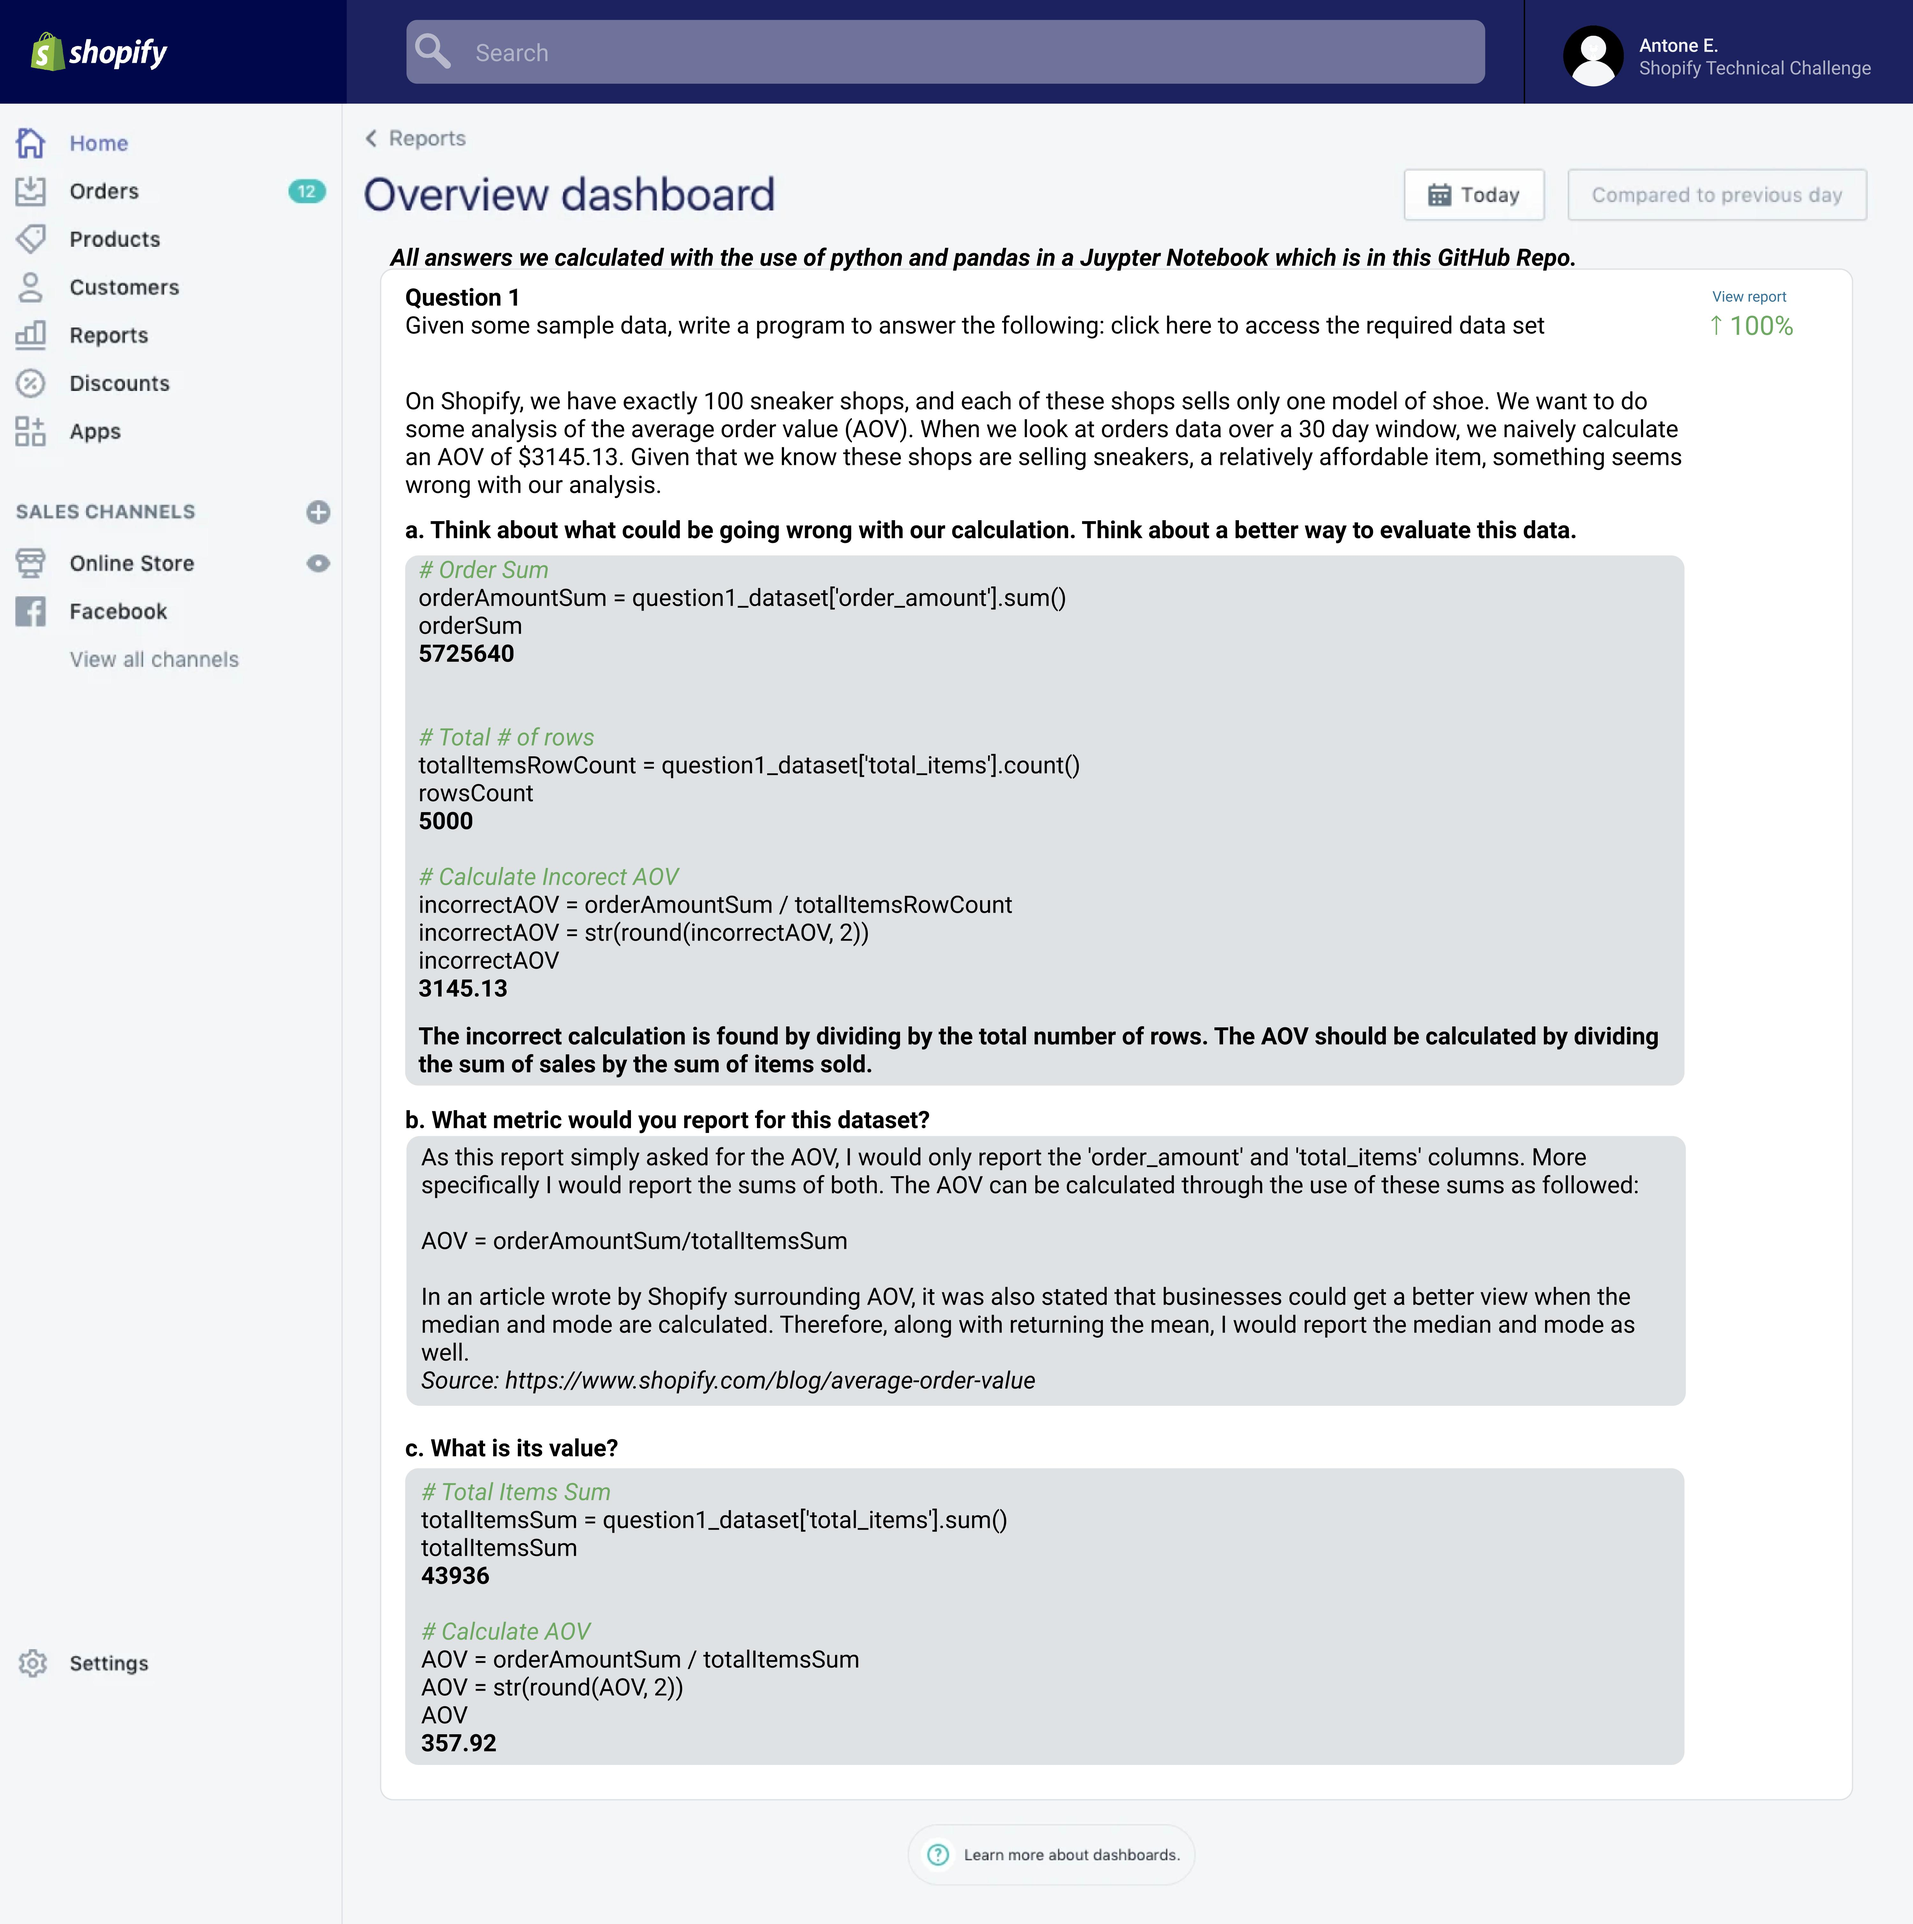
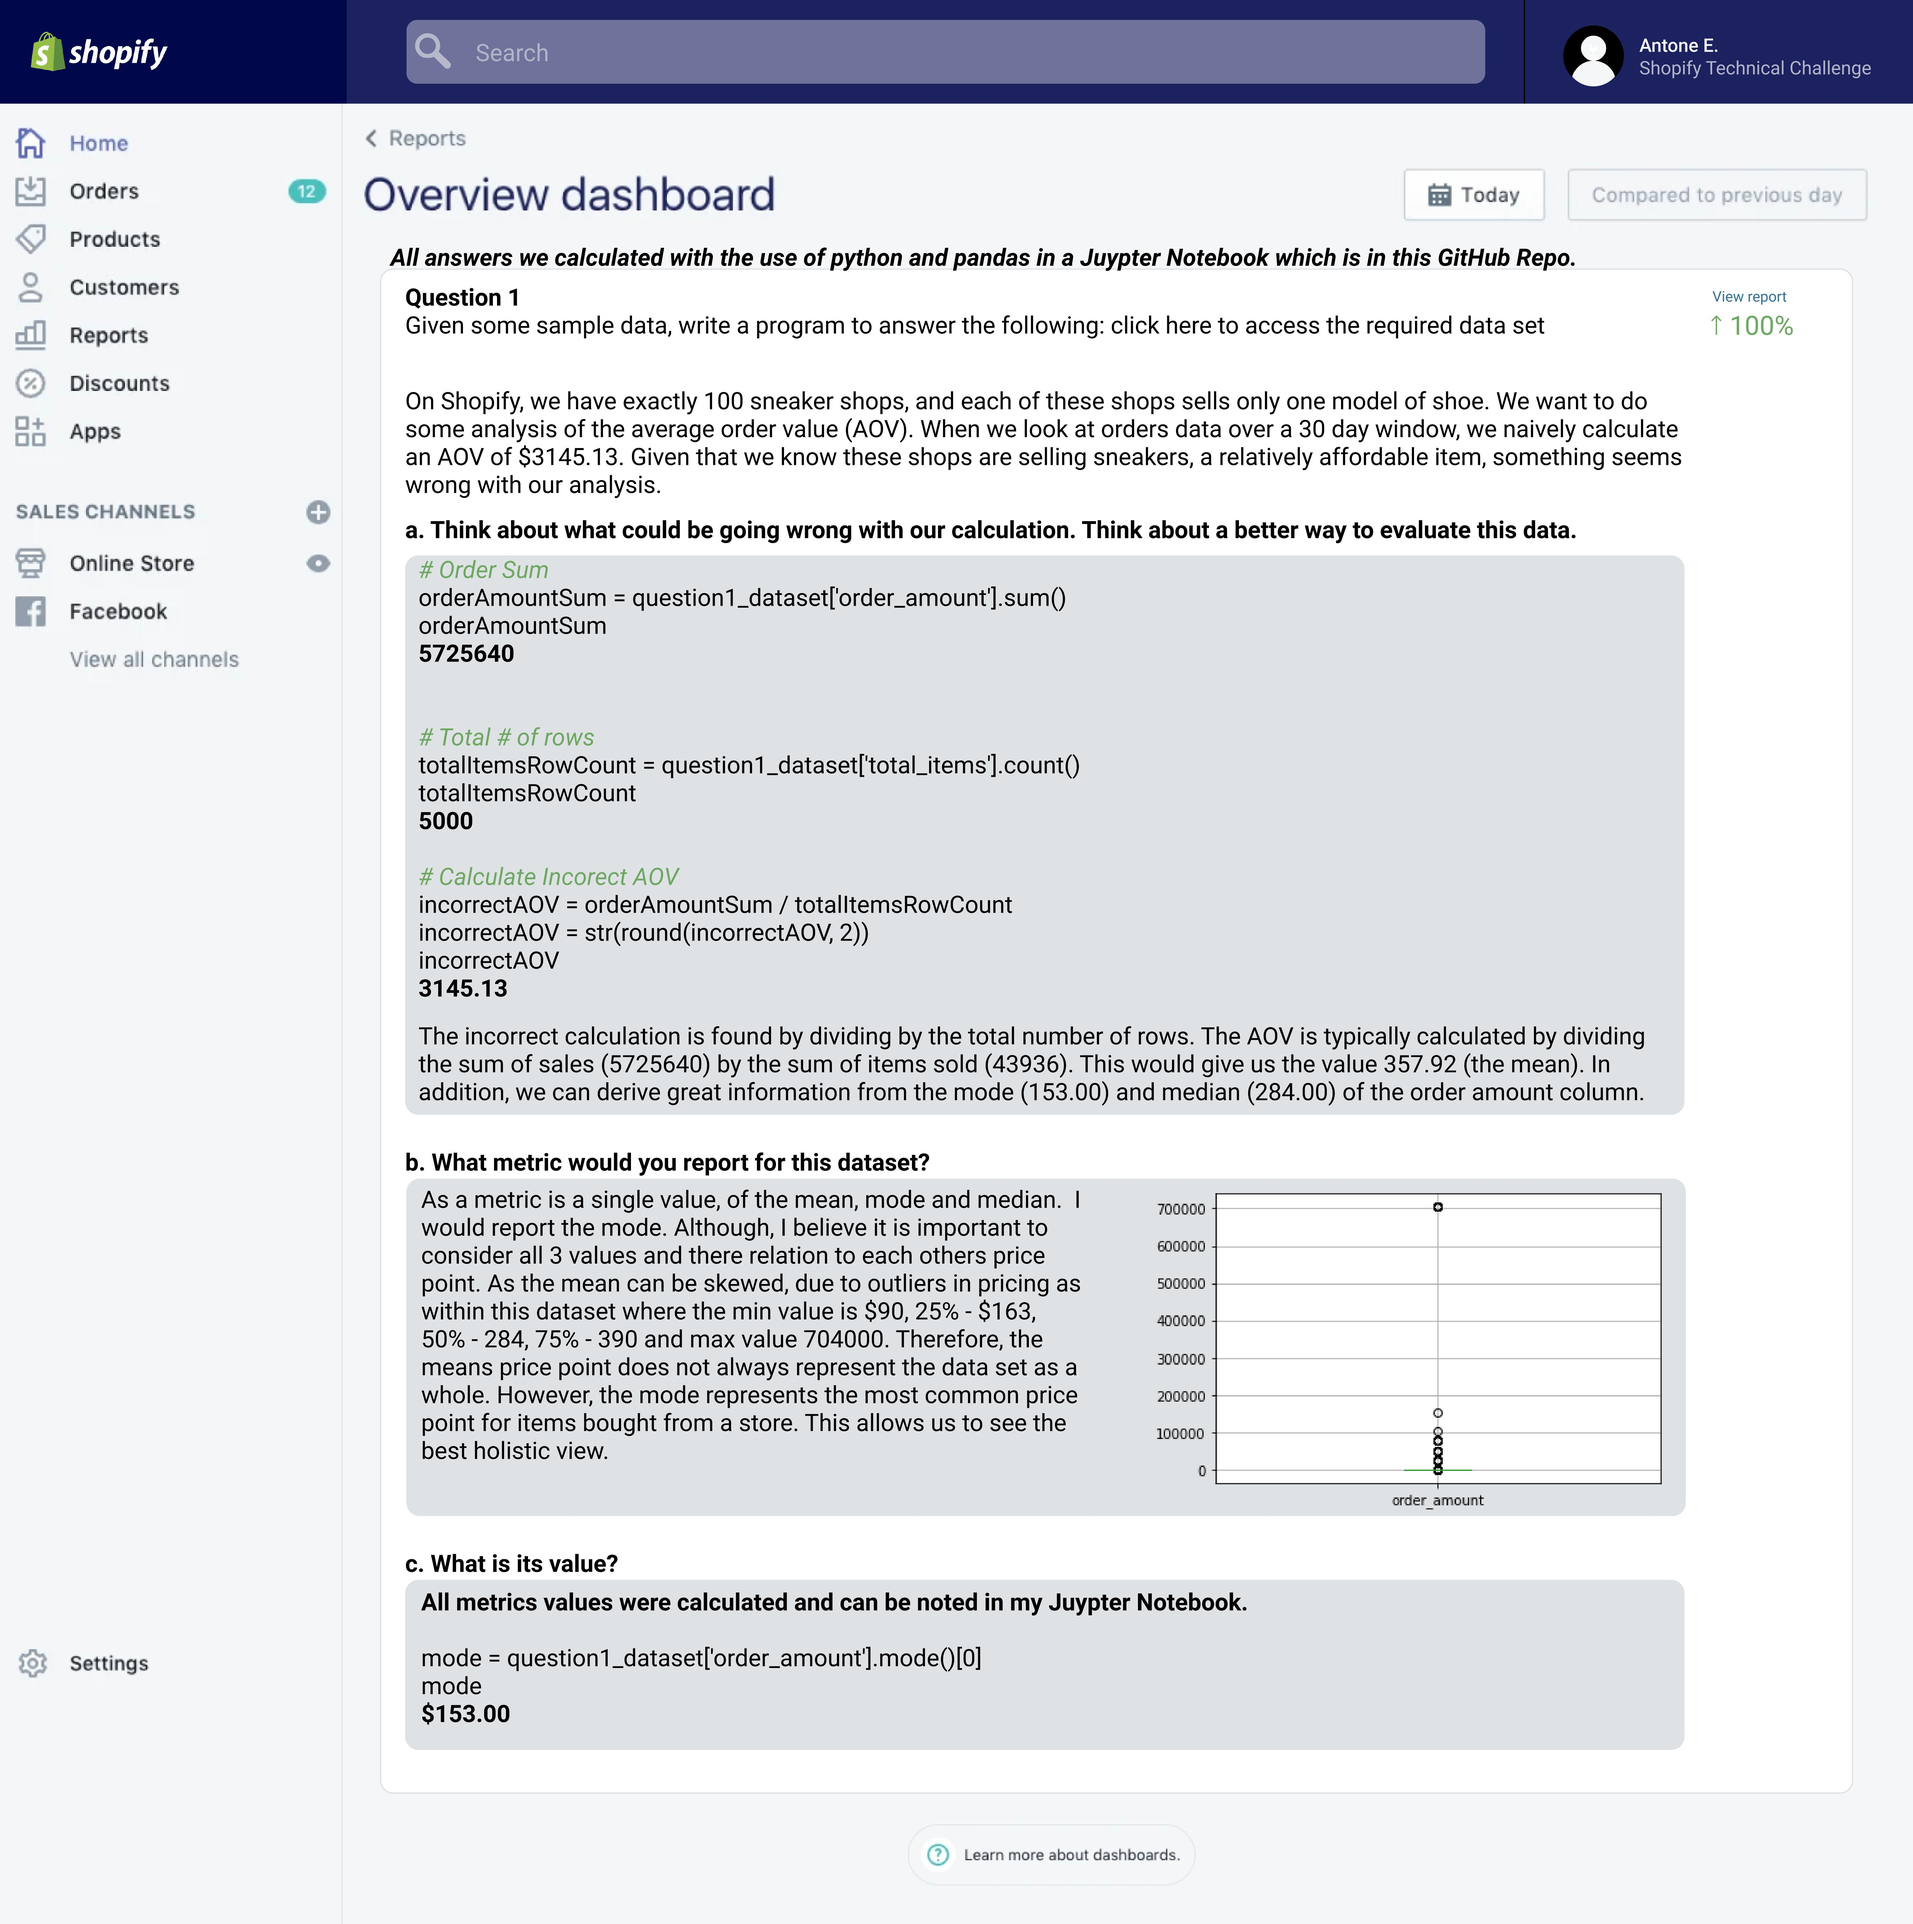
Corrected Image and Readme

Changed region(s): [[0.187, 0.5297, 0.9038, 0.9347], [0.2182, 0.405, 0.2805, 0.4362], [0.2493, 0.3116, 0.2805, 0.3427]]

diff --git a/README.md b/README.md
@@ -16,12 +16,12 @@
 ```python
 # Order Sum
 orderAmountSum = question1_dataset['order_amount'].sum()
-orderSum
+orderAmountSum
 5725640
 
 # Total # of rows
 totalItemsRowCount = question1_dataset['total_items'].count()
-rowsCount
+totalItemsRowCount
 5000
 
 # Calculate Incorect AOV
@@ -31,30 +31,22 @@ incorrectAOV
 3145.13
 ```
 
-The incorrect calculation is found by dividing by the total number of rows. The AOV should be calculated by dividing the sum of sales by the sum of items sold.
+The incorrect calculation is found by dividing by the total number of rows. The AOV is typically calculated by dividing the sum of sales (5725640) by the sum of items sold (43936). This would give us the value 357.92 (the mean). In addition, we can derive great information from the mode (153.00) and median (284.00) of the order amount column. 
 
 ### b.
 
-As this report simply asked for the AOV, I would only report the 'order_amount' and 'total_items' columns. More specifically I would report the sums of both. The AOV can be calculated through the use of these sums as followed:
+As a metric is a single value, of the mean, mode and median.  I would report the mode. Although, I believe it is important to consider all 3 values and there relation to each others price point. As the mean can be skewed, due to outliers in pricing as within this dataset where the min value is $90, 25% - $163, 50% - 284, 75% - 390 and max value 704000. Therefore, the means price point does not always represent the data set as a whole. However, the mode represents the most common price point for items bought from a store. This allows us to see the best holistic view.
 
-AOV = orderAmountSum/totalItemsSum
-
-In an article wrote by Shopify surrounding AOV, it was also stated that businesses could get a better view when the median and mode are calculated. Therefore, along with returning the mean, I would report the median and mode as well.
-Source: https://www.shopify.com/blog/average-order-value
+![Order Amount Boxplot](order_amount-boxplot.png)
 
 ### c. 
 
-```python
-# Total Items Sum
-totalItemsSum = question1_dataset['total_items'].sum()
-totalItemsSum
-43936
+<b> All metrics values were calculated and can be noted in my Juypter Notebook. </b>
 
-# Calculate AOV
-AOV = orderAmountSum / totalItemsSum
-AOV = str(round(AOV, 2))
-AOV
-357.92
+```python
+mode = question1_dataset['order_amount'].mode()[0]
+mode
+$153.00
 ```
 
 
